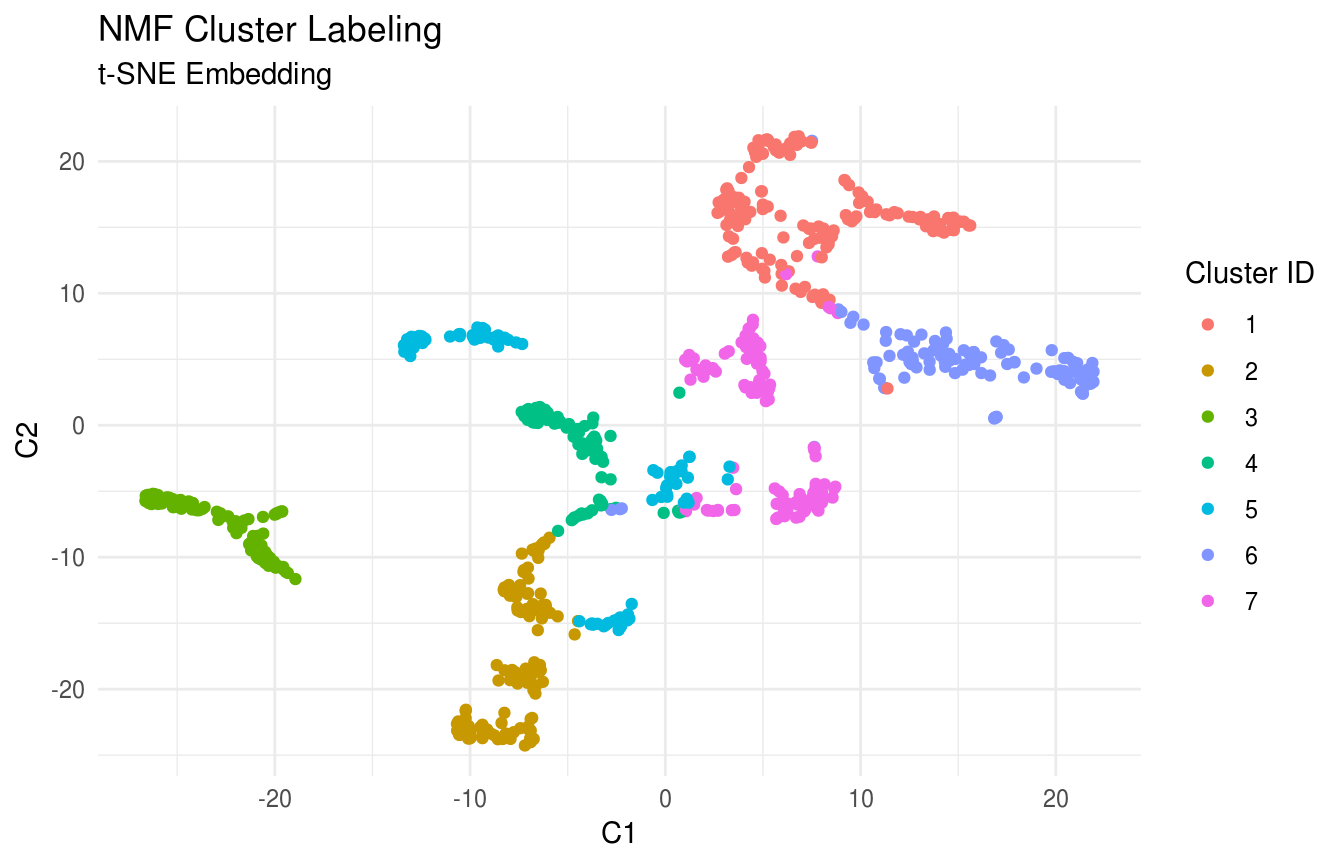
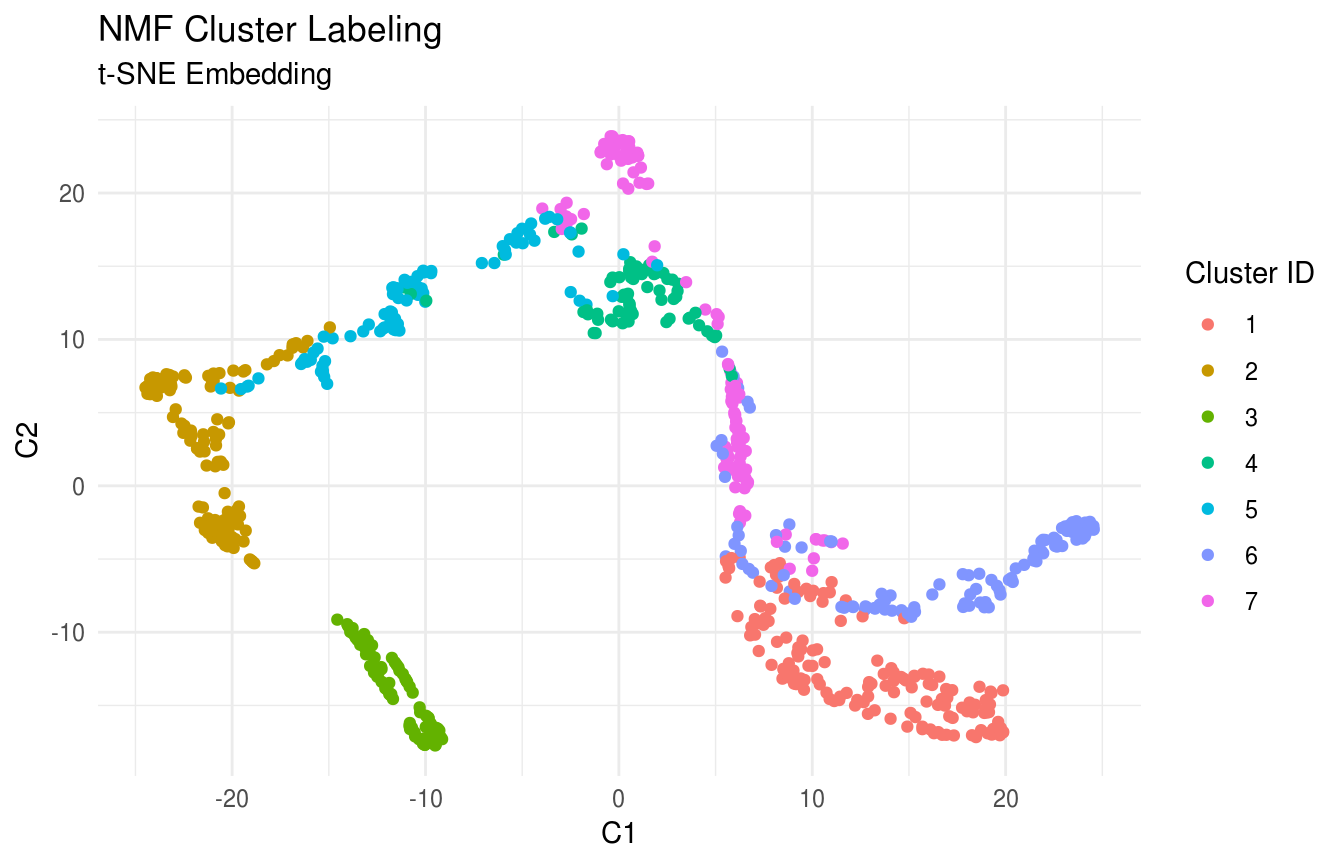
changed tsne params (only 2 pca comps initial)

diff --git a/docs/articles/Joost_et_al.html b/docs/articles/Joost_et_al.html
@@ -81,7 +81,7 @@
       <h1>Clustering Pseudotime Inference on Skin Cell scRNA-seq</h1>
                         <h4 class="author">Matt Karikomi</h4>
             
-            <h4 class="date">2019-02-04</h4>
+            <h4 class="date">2019-02-07</h4>
       
       
       <div class="hidden name"><code>Joost_et_al.Rmd</code></div>
@@ -127,13 +127,14 @@
 <a class="sourceLine" id="cb5-4" data-line-number="4"><span class="co">#                                   dims = 2</span></a>
 <a class="sourceLine" id="cb5-5" data-line-number="5">low_dim_mapping &lt;-<span class="st"> </span><span class="kw"><a href="../reference/RepresentationMap.html">RepresentationMap</a></span>(<span class="dt">similarity_matrix =</span> S<span class="op">$</span>W,</a>
 <a class="sourceLine" id="cb5-6" data-line-number="6">                            <span class="dt">join_components =</span> <span class="ot">FALSE</span>,</a>
-<a class="sourceLine" id="cb5-7" data-line-number="7">                            <span class="dt">perplexity =</span> <span class="dv">50</span>,</a>
+<a class="sourceLine" id="cb5-7" data-line-number="7">                            <span class="dt">perplexity =</span> <span class="dv">35</span>,</a>
 <a class="sourceLine" id="cb5-8" data-line-number="8">                            <span class="dt">theta =</span> <span class="fl">0.5</span>,</a>
 <a class="sourceLine" id="cb5-9" data-line-number="9">                            <span class="dt">normalize =</span> <span class="ot">FALSE</span>,</a>
 <a class="sourceLine" id="cb5-10" data-line-number="10">                            <span class="dt">pca =</span> <span class="ot">TRUE</span>,</a>
 <a class="sourceLine" id="cb5-11" data-line-number="11">                            <span class="dt">pca_center =</span> <span class="ot">TRUE</span>,</a>
 <a class="sourceLine" id="cb5-12" data-line-number="12">                            <span class="dt">pca_scale =</span> <span class="ot">TRUE</span>,</a>
-<a class="sourceLine" id="cb5-13" data-line-number="13">                            <span class="dt">dims =</span> <span class="dv">2</span>)</a></code></pre></div>
+<a class="sourceLine" id="cb5-13" data-line-number="13">                            <span class="dt">dims =</span> <span class="dv">2</span>,</a>
+<a class="sourceLine" id="cb5-14" data-line-number="14">                            <span class="dt">initial_dims =</span> <span class="dv">2</span>)</a></code></pre></div>
 </div>
 <div id="cluster-the-cells" class="section level2">
 <h2 class="hasAnchor">
